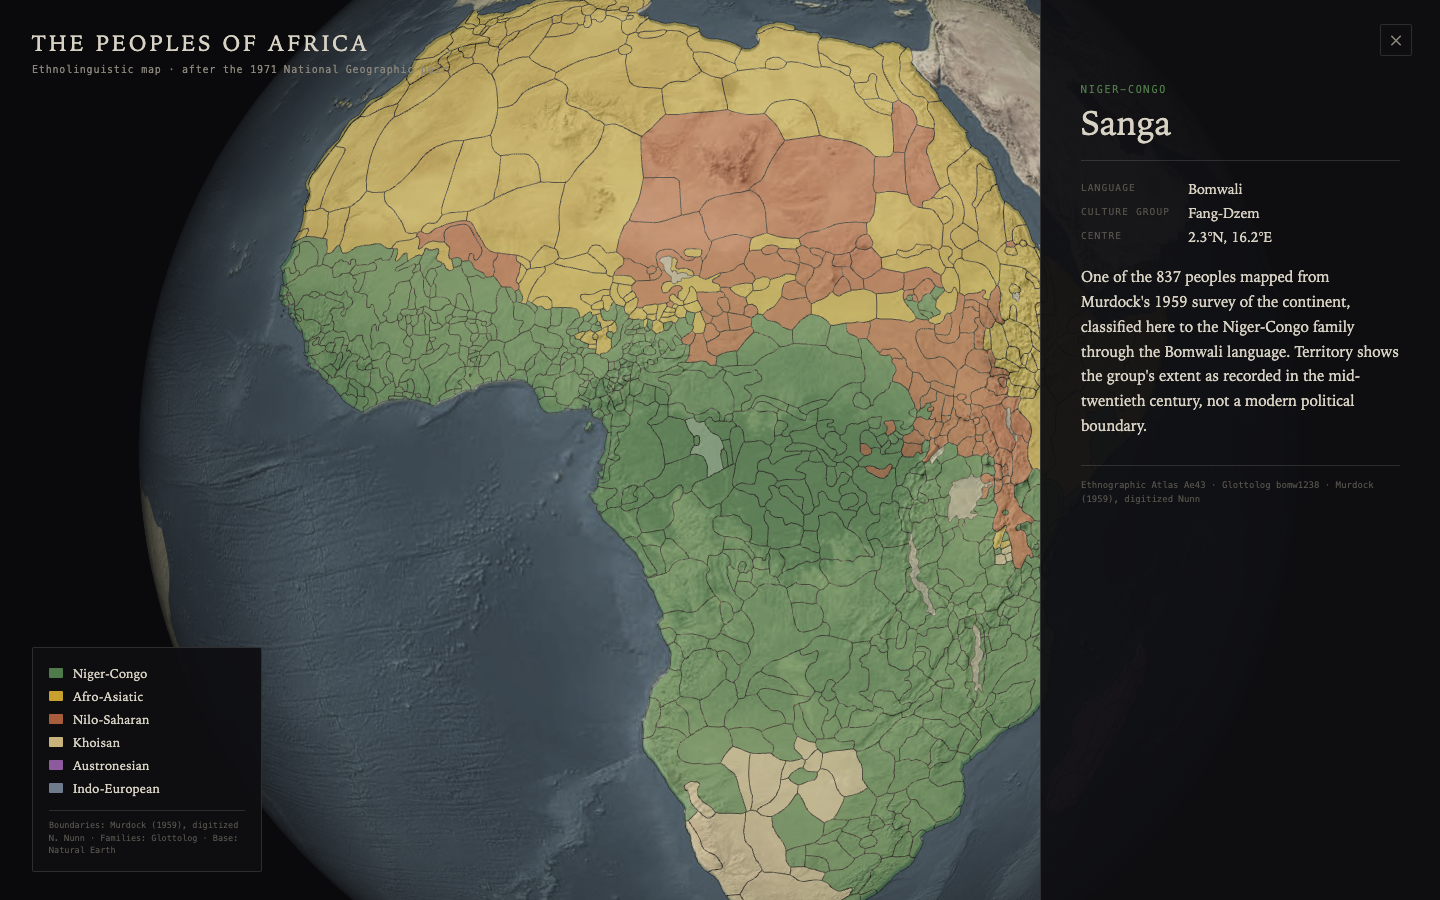
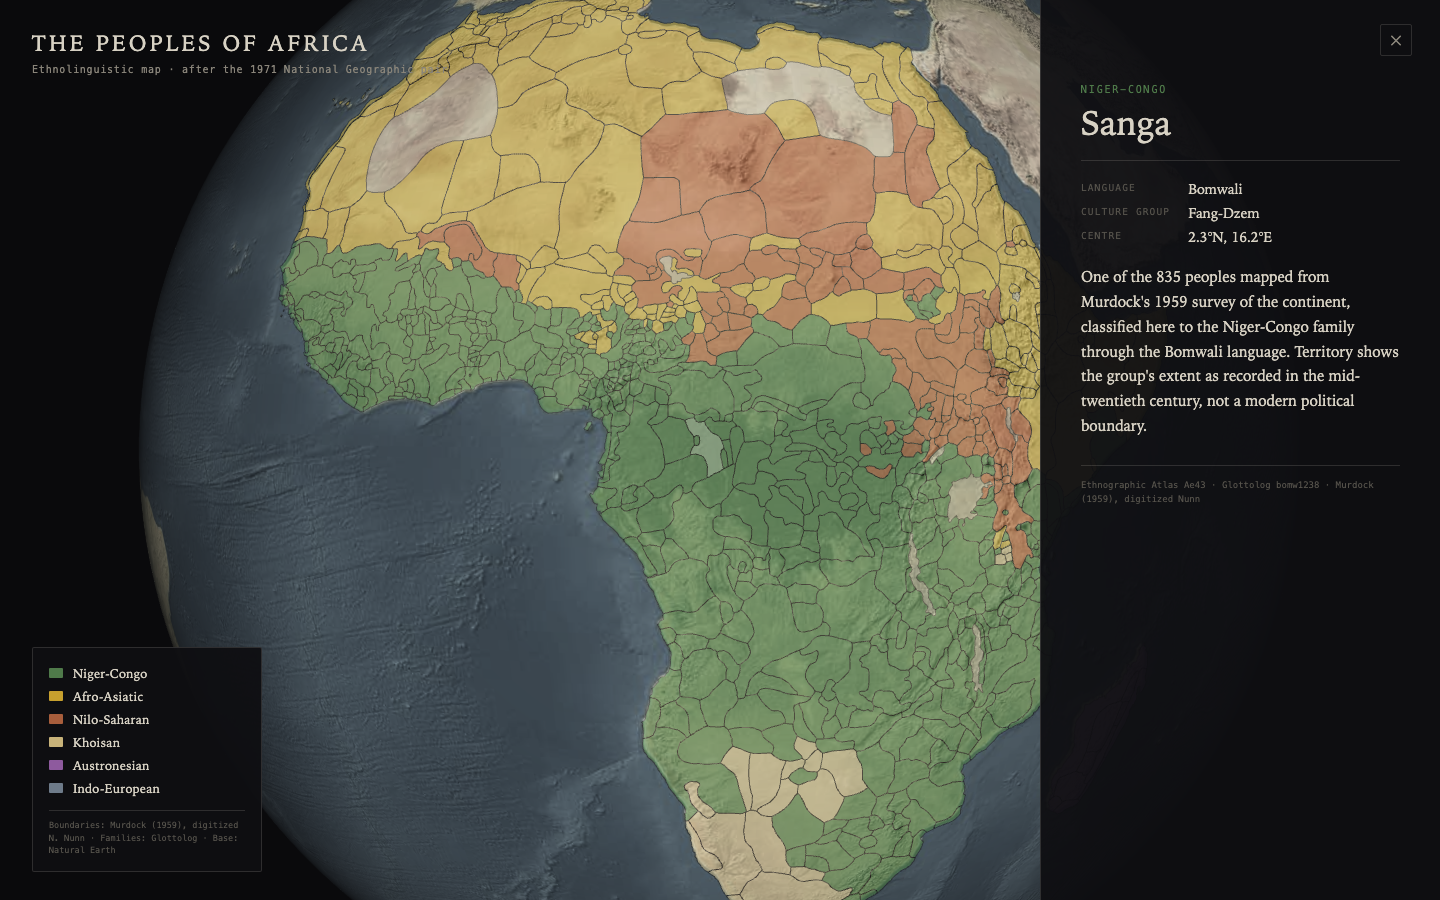
System 3: picking proven — 10/10 scripted picks, panel populate 2.2ms, damping-safe camera sync

Changed region(s): [[0.5, 0.0622, 0.625, 0.1867], [0.25, 0.0622, 0.3438, 0.2178]]

diff --git a/src/scene/GlobeScene.tsx b/src/scene/GlobeScene.tsx
@@ -86,6 +86,20 @@ export function GlobeScene() {
 
   useFrame(() => { frameCounter.current.count++; frameCounter.current.last = performance.now(); });
 
+  // Move the camera programmatically without damping fighting the jump.
+  const syncCamera = (pos: THREE.Vector3) => {
+    const c = controlsRef.current;
+    camera.position.copy(pos);
+    camera.lookAt(0, 0, 0);
+    if (c) {
+      const damped = c.enableDamping;
+      c.enableDamping = false;
+      c.update();
+      c.enableDamping = damped;
+    }
+    camera.updateMatrixWorld(true);
+  };
+
   // Test API: everything the verify harness drives directly.
   useEffect(() => {
     registerTestApi({
@@ -110,12 +124,13 @@ export function GlobeScene() {
         };
       },
       setZoom: (distance: number) => {
-        const c = controlsRef.current!;
         const dir = camera.position.clone().normalize();
-        camera.position.copy(dir.multiplyScalar(distance));
-        c.update();
+        syncCamera(dir.multiplyScalar(distance));
         const sph = new THREE.Spherical().setFromVector3(camera.position);
         return { distance: camera.position.length(), polar: sph.phi };
+      },
+      lookAt: (lat: number, lon: number) => {
+        syncCamera(latLonToVec3(lat, lon, camera.position.length()));
       },
       zoomLimits: () => ({ min: ZOOM_MIN, max: ZOOM_MAX }),
       cameraSane: () => {

diff --git a/src/scene/testApi.ts b/src/scene/testApi.ts
@@ -18,6 +18,7 @@ export interface PoaTestApi {
   audit(): SceneAudit;
   pickAt(ndcX: number, ndcY: number): PickResult | null;
   setZoom(distance: number): { distance: number; polar: number };
+  lookAt(lat: number, lon: number): void;
   zoomLimits(): { min: number; max: number };
   cameraSane(): boolean;
   setLayer(layer: "peoples" | "heritage" | "overlay"): void;
